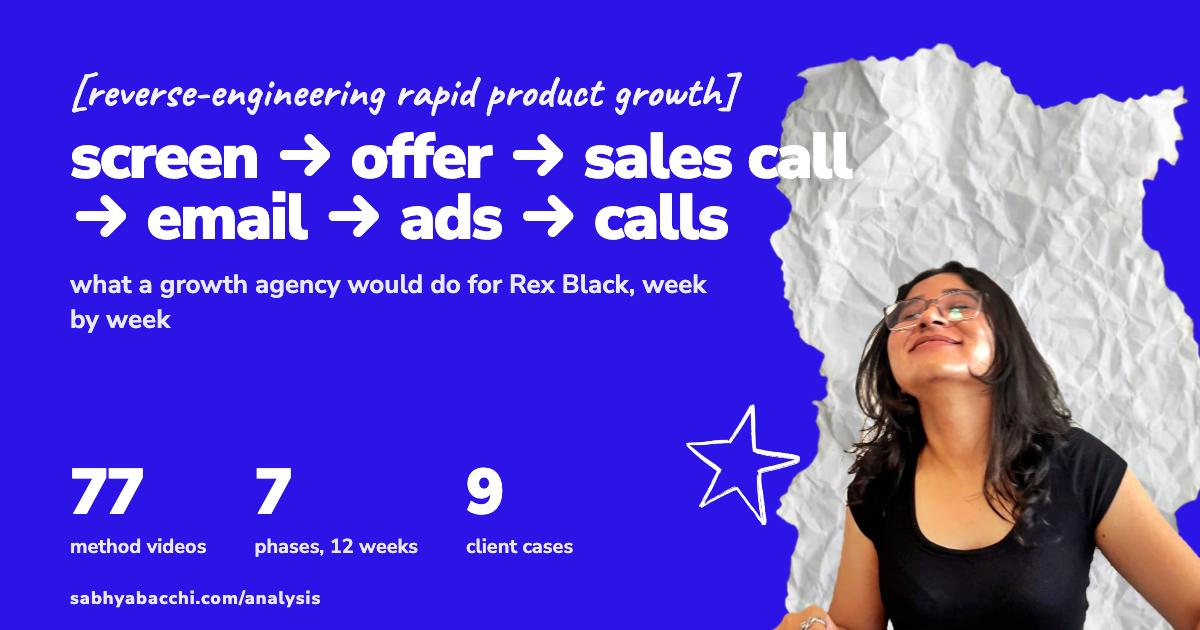
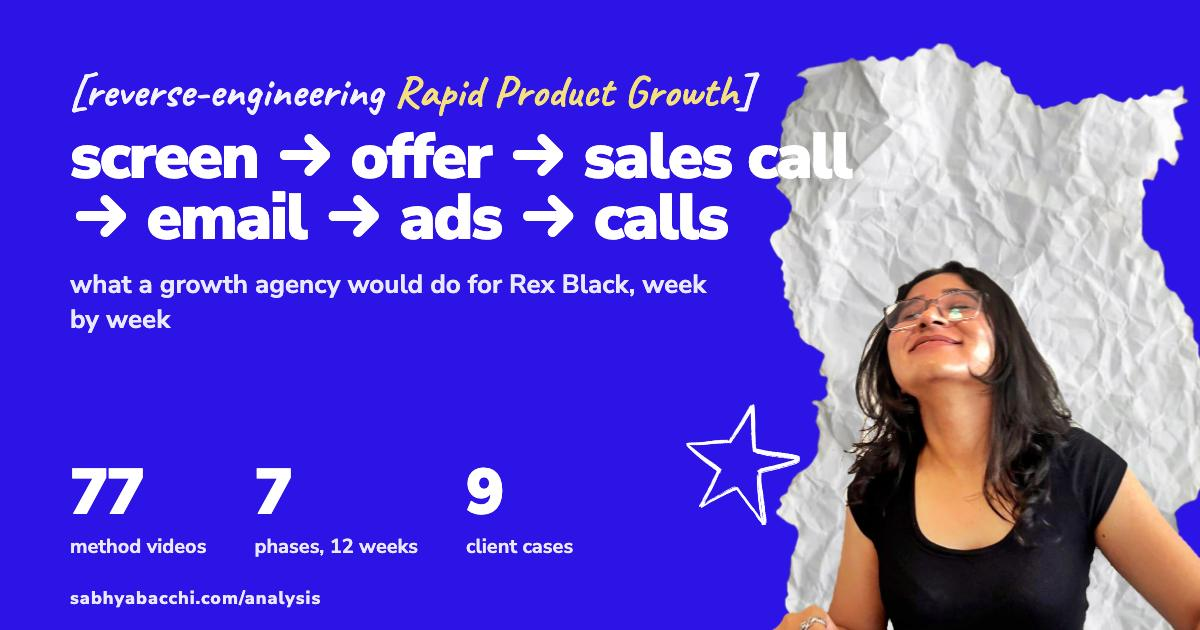
RPG page: one-line title with highlighted company name, neutral in-house chapter, copy fixes

Changed region(s): [[0.3083, 0.0905, 0.6475, 0.181]]

diff --git a/analysis/rpg-playbook/index.html b/analysis/rpg-playbook/index.html
@@ -1414,6 +1414,9 @@
   @media (max-width:1179px){.rpg .ch,.rp-phase{scroll-margin-top:60px}}
   @media (max-width:600px){.rpg > section:first-of-type{padding-top:calc(40px + var(--hdr-h,0px) + 44px)}}
   .rpg h2{max-width:22ch;text-wrap:balance}
+  .rpg h1{font-size:clamp(30px,3.05vw,46px);letter-spacing:-.025em}
+  @media (min-width:1180px){.rpg h1{white-space:nowrap}}
+  .rpg h1 .co{font-style:normal;color:var(--yellow);text-decoration:underline;text-decoration-color:rgba(255,236,120,.55);text-decoration-thickness:3px;text-underline-offset:8px}
   /* the Squarespace theme paints h1-h4 white; give them the section's ink on light surfaces */
   .rpg .white h1,.rpg .white h2,.rpg .white h3,.rpg .white h4,.rp-board h3,.rp-calc h3,.rp-cases h4,.rp-checks h4{color:var(--ink)}
   .rpg h3{font-family:'Manrope',"Helvetica Neue",Arial,sans-serif;font-weight:800;letter-spacing:-.02em;line-height:1.05;font-size:clamp(22px,2.2vw,30px);margin:0 0 14px}
@@ -1423,9 +1426,9 @@
   .rpg li{margin:0 0 9px}
   .rpg li b{font-weight:700}
   .rpg q{quotes:"\201C" "\201D"}
-  .rpg .lead{font-size:clamp(20px,2.3vw,26px);line-height:1.3;font-weight:600;margin-top:20px;max-width:34ch;font-family:'Manrope',"Helvetica Neue",Arial,sans-serif}
+  .rpg .lead{font-size:clamp(18px,1.5vw,22px);line-height:1.35;font-weight:600;margin-top:18px;max-width:none;font-family:'Manrope',"Helvetica Neue",Arial,sans-serif}
   .rpg .lead i{font-style:normal;opacity:.55;margin:0 .35em}
-  .rpg .byline{font-family:"Helvetica Neue",Arial,sans-serif;font-size:13px;letter-spacing:.06em;text-transform:uppercase;opacity:.75;margin-top:28px}
+  .rpg .byline{max-width:none;font-family:"Helvetica Neue",Arial,sans-serif;font-size:13px;letter-spacing:.06em;text-transform:uppercase;opacity:.75;margin-top:28px}
   .rpg .chips{display:flex;flex-wrap:wrap;gap:10px;margin-top:22px}
   .rpg .chips i{font-style:normal;border:2px solid rgba(255,255,255,.55);border-radius:999px;padding:7px 14px;font-family:'Manrope',"Helvetica Neue",Arial,sans-serif;font-size:13.5px;font-weight:700}
   .rpg .white .chips i{border-color:rgba(0,0,0,.35);color:var(--ink)}
@@ -1448,7 +1451,7 @@
   }
   /* stats */
   .rp-stats{display:grid;grid-template-columns:repeat(6,1fr);gap:26px 20px;margin:44px 0 0}
-  .rp-stats b{display:block;font-family:'Manrope',"Helvetica Neue",Arial,sans-serif;font-size:clamp(30px,3.2vw,46px);font-weight:800;letter-spacing:-.03em;line-height:1;color:var(--blue)}
+  .rp-stats b{display:block;white-space:nowrap;font-family:'Manrope',"Helvetica Neue",Arial,sans-serif;font-size:clamp(26px,2.5vw,38px);font-weight:800;letter-spacing:-.03em;line-height:1;color:var(--blue)}
   .rp-stats span{display:block;font-family:"Helvetica Neue",Arial,sans-serif;font-size:12.5px;line-height:1.35;margin-top:8px;color:#333}
   .rp-stats small{display:block;font-size:11px;opacity:.55;margin-top:5px}
   /* two-column */
@@ -1650,7 +1653,7 @@
   <a href="#c5"><b>05</b>The CEO&rsquo;s part</a>
   <a href="#c6"><b>06</b>Money and timeline</a>
   <a href="#c7"><b>07</b>Applied to Rex Black</a>
-  <a href="#c8"><b>08</b>In-house, or not</a>
+  <a href="#c8"><b>08</b>Run in-house</a>
   <a href="#c9"><b>09</b>Sources and method</a>
   <span class="cnt"><span id="rp-cnt">01</span> / 09</span>
 </nav>
@@ -1658,7 +1661,7 @@
 <!-- 01 hero + in one page -->
 <section class="navy ch" id="c1">
   <div class="wrap">
-    <h1>[reverse-engineering rapid product growth]</h1>
+    <h1>[reverse-engineering <em class="co">Rapid Product Growth</em>]</h1>
     <p class="lead">screen<i>&rarr;</i>rewrite the offer<i>&rarr;</i>fix the sales call<i>&rarr;</i>cold email<i>&rarr;</i>Meta ads<i>&rarr;</i>booked calls<i>&rarr;</i>scale.<br>What a growth agency would do for Rex Black, week by week.</p>
     <p style="margin-top:22px">This page walks through what Rapid Product Growth (&ldquo;RPG&rdquo;) would do for Rex Black after a contract is signed, from the first week to month three and beyond. It is written for someone who has read nothing else. It is reconstructed from RPG&rsquo;s own method videos, the 7-minute sales video on their booking page, a 45-minute podcast interview in which Jean-Michel Moreau describes his process, and the ads RPG is running right now from two clients&rsquo; own Facebook pages. Where a number appears, it is his number, and the source is named.</p>
     <div class="chips">
@@ -1676,7 +1679,7 @@
         <p>The new thing to sell is a small project with a fixed price, a fixed deadline, a clearly named result, and a money-back clause, aimed at a demand trigger that already exists in the market. Only after that offer exists do they touch any marketing channel.</p>
         <p>Then it works from the back of the funnel to the front. First they fix how Rex Black sells: record every sales call, pull out the objections, retrain the team to sell to cold buyers. Second they tune cold email outreach, aiming for two to five percent of people replying, and use podcast invitations as an indirect way in. Only then do they run Facebook and Instagram ads, and those ads sell a phone call rather than the service. The ads run from Rex Black&rsquo;s own Facebook page, five or six versions at a time, paid for with $5,000 to $10,000 a month of Rex Black&rsquo;s money.</p>
         <p>One number governs everything: the cost of getting one qualified prospect to book a call and actually show up. The benchmarks he uses are $250 to $500 per booked call from Meta ads for a normal B2B company, an 80 percent show rate when things are working, and a 20 percent close rate on calls that were booked for a specific offer. Put together, that means $1,500 to $6,000 to win a customer. He expects the first calls within 30 days, cash within 60 to 90 days, and the whole funnel &ldquo;unlocked&rdquo; within one to three months. If a company&rsquo;s numbers cannot beat those, he says so on the first call and does not take the deal.</p>
-        <p>The part that is really him, and not a system: he sits in your sales calls, rewrites how you run discovery and how you present, and he upsells you to the bigger engagement inside the first two weeks. In his words, that happens &ldquo;at the point of maximum deprivation, before the problem is solved.&rdquo; Everything else in the machine is documented on his own channel.</p>
+        <p>Alongside the system, he sits in the client&rsquo;s sales calls, rewrites how discovery and the presentation are run, and proposes the bigger engagement inside the first two weeks. In his words, that happens &ldquo;at the point of maximum deprivation, before the problem is solved.&rdquo; Each step of the machine is documented on his own channel.</p>
       </div>
       <div>
         <span class="k">Terms used on this page</span>
@@ -1760,7 +1763,7 @@
         <p class="q">He rejects founders whose attitude is &ldquo;everything doesn&rsquo;t work for me, prove it.&rdquo; He wants &ldquo;there&rsquo;s no reason why this should be impossible.&rdquo;</p>
         <p>He reads the founder for this in the conversation itself, not from a form.</p></div>
     </div>
-    <p style="margin-top:40px">He also sells his guarantee by telling stories about rejection. In the ad he calls &ldquo;we copied Harvard&rdquo; and in his vendor-audit videos, he tells &ldquo;the three times it didn&rsquo;t work.&rdquo; He explains that most engagements begin as fractional work, meaning a part-time paid role auditing what the company already does: &ldquo;I come in to evaluate all their vendors&hellip; very often we come up with a more involved engagement within the first two weeks.&rdquo; So the realistic expectation from a first proposal is a small paid audit, not the full program.</p>
+    <p style="margin-top:40px">He also talks openly about rejection when he explains the guarantee. In the ad he calls &ldquo;we copied Harvard&rdquo; and in his vendor-audit videos, he tells &ldquo;the three times it didn&rsquo;t work.&rdquo; He explains that most engagements begin as fractional work, meaning a part-time paid role auditing what the company already does: &ldquo;I come in to evaluate all their vendors&hellip; very often we come up with a more involved engagement within the first two weeks.&rdquo; So the realistic expectation from a first proposal is a small paid audit, not the full program.</p>
   </div>
 </section>
 
@@ -1937,11 +1940,11 @@
           <li><b>Find and attack the next blockage</b> using the real numbers against industry benchmarks, and move resources to it rather than polishing things that already work. In his words, that is the point where &ldquo;you&rsquo;ve earned the million.&rdquo;</li>
           <li><b>Leaders and operations.</b> A simple system for what a leader&rsquo;s job is, so problems stop flowing up to the CEO, and Toyota-style process work so that &ldquo;growth doesn&rsquo;t break your business.&rdquo;</li>
           <li><b>The client rhythm.</b> Weekly calls. A &ldquo;raise the floor&rdquo; rule: never test fewer than two things even in a bad week, rather than trying to beat your best week. The founder submits their own plan for that each week.</li>
-          <li><b>Handover.</b> &ldquo;Then we hand you a system you own.&rdquo; In practice the ad account, the Facebook page, the forms and the workflows already live in the client&rsquo;s own accounts (Susco and 2X advertise from their own pages), so what leaves with RPG at the end is the judgement, not the tooling.</li>
+          <li><b>Handover.</b> &ldquo;Then we hand you a system you own.&rdquo; In practice the ad account, the Facebook page, the forms and the workflows already live in the client&rsquo;s own accounts (Susco and 2X advertise from their own pages), so the accounts, pages and workflows stay with the client at the end.</li>
         </ol></div>
         <div class="rp-side">
           <div class="paper"><span class="tape"></span><small>Where the system lives</small>
-            <p>Both live clients advertise from their own Facebook pages, and the forms are Meta instant forms or Typeform on the client&rsquo;s account. The tooling is the client&rsquo;s from day one. The weekly judgement is the part supplied by RPG.</p>
+            <p>Both live clients advertise from their own Facebook pages, and the forms are Meta instant forms or Typeform on the client&rsquo;s account. The tooling is the client&rsquo;s from day one.</p>
             <div class="rp-why"><small>Why</small><span>He sells the system as something the client keeps, so it is built inside the client&rsquo;s accounts.</span></div>
           </div>
         </div>
@@ -1994,7 +1997,7 @@
         <div class="res">426% return on ad spend in 14 days; 100 to 2,000 leads a month; &ldquo;more new users today than all of December&rdquo;</div>
         <div class="src">Website testimonials</div><span class="tag">RPG&rsquo;s claim</span></div>
     </div>
-    <p class="rp-foot">Every public case is B2B software, consulting or a services shop selling to trades. None is a D2C or e-commerce brand.</p>
+    <p class="rp-foot">The named cases are B2B software, consulting and services firms, plus one B&amp;B. None is a D2C or e-commerce brand.</p>
   </div>
 </section>
 
@@ -2069,7 +2072,7 @@
     <h3 style="margin-top:44px">The offer he would push Rex Black toward</h3>
     <p>He colour-codes offers. Yellow is &ldquo;hard to sell without a relationship, takes an incredible amount of trust.&rdquo; He used almost that exact phrase about another client&rsquo;s ad that offered to &ldquo;place one of our engineers in your project.&rdquo; Green rides a queue that already exists.</p>
     <div class="rp-offers">
-      <div class="y"><small>Yellow, in his code</small><b>&ldquo;Custom software development&rdquo;</b><p>What Rex Black says it does today. Sold on trust and referrals. A stranger cannot approve it without a relationship.</p></div>
+      <div class="y"><small>Yellow, in his code</small><b>&ldquo;Custom software development&rdquo;</b><p>Rex Black&rsquo;s current positioning. Sold on trust and referrals. A stranger cannot approve it without a relationship.</p></div>
       <div class="g"><small>Green: D2C brand</small><b>&ldquo;Core Web Vitals and checkout speed fixed in 30 days for $12,000, or you don&rsquo;t pay.&rdquo;</b><p>Tied to revenue before Black Friday. A marketing director can approve it alone. About one in ten of these buyers becomes the $100,000-plus build, by his rule of thumb.</p></div>
       <div class="g"><small>Green: agency</small><b>&ldquo;A senior developer on your project within two weeks, fixed monthly price.&rdquo;</b><p>The outcome for an agency is capacity: &ldquo;a senior developer just left.&rdquo; Alternative D2C shape: &ldquo;Klaviyo flows rebuilt before Black Friday, fixed price, three weeks.&rdquo;</p></div>
     </div>
@@ -2126,11 +2129,12 @@
 <!-- 08 in-house -->
 <section class="white ch" id="c8">
   <div class="wrap">
-    <span class="k">08 &middot; What can be built in-house, and what cannot</span>
-    <h2>Most of the machine is on his channel. Four things are not.</h2>
+    <span class="k">08 &middot; Run in-house</span>
+    <h2>The same playbook, run from inside Rex Black</h2>
+    <p>Every step in the engagement is documented on RPG&rsquo;s own channel. This is how each one would be run by someone inside the company, on Rex Black&rsquo;s own data and buyers.</p>
     <div class="rp-inh">
       <div>
-        <h3>Fully reproducible from his videos</h3>
+        <h3>Every step, from his own videos</h3>
         <ul class="yes">
           <li>The vendor audit sheet and the one metric: cost per qualified call that showed.</li>
           <li>The ideal-customer spreadsheet built from Rex Black&rsquo;s past clients.</li>
@@ -2144,19 +2148,19 @@
         </ul>
       </div>
       <div>
-        <h3>Genuinely his, not in any video</h3>
-        <ul class="no">
-          <li>Twenty years of operator pattern-matching, &ldquo;around 10 new founders and CEOs a week,&rdquo; applied live on the sales call.</li>
-          <li>Sitting in the client&rsquo;s sales calls and rewriting discovery and the pitch.</li>
-          <li>Knowing when to reject a client, and the confidence to say so.</li>
-          <li>A guarantee backed by a company that can absorb a miss.</li>
+        <h3>What running it in-house adds</h3>
+        <ul class="yes">
+          <li>Objections are captured after every discovery call and acted on the same day: Tuesday&rsquo;s objection becomes Wednesday&rsquo;s ad angle or retargeting message.</li>
+          <li>The workflows are built for our results, not a template, and change as we see what works. Most of the smaller automations I can build myself with AI tools.</li>
+          <li>Direct access to why deals are lost, what clients keep asking for and what projects actually cost to deliver, turned into campaign changes and tested quickly.</li>
+          <li>Every test result, objection and lost-deal insight stays with Rex Black, so each campaign starts from what the last one learned.</li>
+          <li>Experience from inside a D2C brand: the operating realities, priorities and buying considerations of the businesses Rex Black targets.</li>
         </ul>
-        <p style="margin-top:18px">Those four things a company either buys with a fee or supplies through its own CEO&rsquo;s selling. Neither is a lead-generation hire&rsquo;s job.</p>
       </div>
     </div>
 
     <h3 style="margin-top:56px">Same steps, run inside Rex Black</h3>
-    <p>How I would run each step of the board from inside the company.</p>
+    <p>Each step of the board, and how it runs from inside the company.</p>
     <div class="rp-scroll" style="margin-top:18px"><table class="rp-table inh">
       <thead><tr><th>Step</th><th>RPG&rsquo;s version</th><th>In-house version</th></tr></thead>
       <tbody>
@@ -2168,7 +2172,7 @@
         <tr><td>Meta ads</td><td>Their template, $5&ndash;10k a month from day one</td><td>Same test order. Start small, scale on evidence.</td></tr>
         <tr><td>Booked calls</td><td>Their setter confirms</td><td>I qualify and confirm every booking before it reaches the CEO.</td></tr>
       </tbody></table></div>
-    <p style="margin-top:26px">So the comparison is between two ways of running the same playbook: RPG&rsquo;s judgement for a fee, plus $5,000 to $10,000 a month of ads, or the playbook run in-house on Rex Black&rsquo;s real buyers, with the CEO closing. The steps are public. The fee buys the judgement and the weekly presence.</p>
+    <p style="margin-top:26px">The steps are public and the accounts sit with the client either way. What changes with an in-house run is where the learning lives and how fast it is acted on.</p>
   </div>
 </section>
 
@@ -2182,7 +2186,7 @@
       <div><b>Transcribe</b>YouTube captions pulled and cleaned (134,000 words). LinkedIn clips and the sales video transcribed with Gemini, speaker-labelled.</div>
       <div><b>Extract</b>Sixteen method videos read in full. The other 61 turned into structured notes per video with Gemini and reviewed by hand.</div>
       <div><b>Cross-check</b>Claude used to organise about 150,000 words into one process map. Each number kept only where two sources agree or one source is quoted directly.</div>
-      <div><b>Write</b>Every figure on this page is RPG&rsquo;s own, tagged with where it was said. Nothing here is a measured result of their work.</div>
+      <div><b>Write</b>Every figure on this page is RPG&rsquo;s own, tagged with where it was said. None of the figures were measured independently.</div>
     </div>
     <ul class="rp-src">
       <li><b>Rapid Product Growth&rsquo;s YouTube channel:</b> all 77 videos. Read in full: 11-Step Growth System; The 3 Steps Every Business Must Follow; One Metric Exposes Bad Marketing Agencies; Pick the Right Growth Channel; Why 70% Lose Money on Paid Ads; Stop Wasting Money on LinkedIn Ads; 5-Quadrant Bottleneck; ICP Spreadsheet; Four Mistakes; 3 Marketing Tactics; ROI Trap; $1M Ceiling; SFOs; Stuck at $5M; Strategic Retargeting; Picking the Right Agency.</li>

diff --git a/pages/rpg-playbook.html b/pages/rpg-playbook.html
@@ -6,6 +6,9 @@
   @media (max-width:1179px){.rpg .ch,.rp-phase{scroll-margin-top:60px}}
   @media (max-width:600px){.rpg > section:first-of-type{padding-top:calc(40px + var(--hdr-h,0px) + 44px)}}
   .rpg h2{max-width:22ch;text-wrap:balance}
+  .rpg h1{font-size:clamp(30px,3.05vw,46px);letter-spacing:-.025em}
+  @media (min-width:1180px){.rpg h1{white-space:nowrap}}
+  .rpg h1 .co{font-style:normal;color:var(--yellow);text-decoration:underline;text-decoration-color:rgba(255,236,120,.55);text-decoration-thickness:3px;text-underline-offset:8px}
   /* the Squarespace theme paints h1-h4 white; give them the section's ink on light surfaces */
   .rpg .white h1,.rpg .white h2,.rpg .white h3,.rpg .white h4,.rp-board h3,.rp-calc h3,.rp-cases h4,.rp-checks h4{color:var(--ink)}
   .rpg h3{font-family:'Manrope',"Helvetica Neue",Arial,sans-serif;font-weight:800;letter-spacing:-.02em;line-height:1.05;font-size:clamp(22px,2.2vw,30px);margin:0 0 14px}
@@ -15,9 +18,9 @@
   .rpg li{margin:0 0 9px}
   .rpg li b{font-weight:700}
   .rpg q{quotes:"\201C" "\201D"}
-  .rpg .lead{font-size:clamp(20px,2.3vw,26px);line-height:1.3;font-weight:600;margin-top:20px;max-width:34ch;font-family:'Manrope',"Helvetica Neue",Arial,sans-serif}
+  .rpg .lead{font-size:clamp(18px,1.5vw,22px);line-height:1.35;font-weight:600;margin-top:18px;max-width:none;font-family:'Manrope',"Helvetica Neue",Arial,sans-serif}
   .rpg .lead i{font-style:normal;opacity:.55;margin:0 .35em}
-  .rpg .byline{font-family:"Helvetica Neue",Arial,sans-serif;font-size:13px;letter-spacing:.06em;text-transform:uppercase;opacity:.75;margin-top:28px}
+  .rpg .byline{max-width:none;font-family:"Helvetica Neue",Arial,sans-serif;font-size:13px;letter-spacing:.06em;text-transform:uppercase;opacity:.75;margin-top:28px}
   .rpg .chips{display:flex;flex-wrap:wrap;gap:10px;margin-top:22px}
   .rpg .chips i{font-style:normal;border:2px solid rgba(255,255,255,.55);border-radius:999px;padding:7px 14px;font-family:'Manrope',"Helvetica Neue",Arial,sans-serif;font-size:13.5px;font-weight:700}
   .rpg .white .chips i{border-color:rgba(0,0,0,.35);color:var(--ink)}
@@ -40,7 +43,7 @@
   }
   /* stats */
   .rp-stats{display:grid;grid-template-columns:repeat(6,1fr);gap:26px 20px;margin:44px 0 0}
-  .rp-stats b{display:block;font-family:'Manrope',"Helvetica Neue",Arial,sans-serif;font-size:clamp(30px,3.2vw,46px);font-weight:800;letter-spacing:-.03em;line-height:1;color:var(--blue)}
+  .rp-stats b{display:block;white-space:nowrap;font-family:'Manrope',"Helvetica Neue",Arial,sans-serif;font-size:clamp(26px,2.5vw,38px);font-weight:800;letter-spacing:-.03em;line-height:1;color:var(--blue)}
   .rp-stats span{display:block;font-family:"Helvetica Neue",Arial,sans-serif;font-size:12.5px;line-height:1.35;margin-top:8px;color:#333}
   .rp-stats small{display:block;font-size:11px;opacity:.55;margin-top:5px}
   /* two-column */
@@ -242,7 +245,7 @@
   <a href="#c5"><b>05</b>The CEO&rsquo;s part</a>
   <a href="#c6"><b>06</b>Money and timeline</a>
   <a href="#c7"><b>07</b>Applied to Rex Black</a>
-  <a href="#c8"><b>08</b>In-house, or not</a>
+  <a href="#c8"><b>08</b>Run in-house</a>
   <a href="#c9"><b>09</b>Sources and method</a>
   <span class="cnt"><span id="rp-cnt">01</span> / 09</span>
 </nav>
@@ -250,7 +253,7 @@
 <!-- 01 hero + in one page -->
 <section class="navy ch" id="c1">
   <div class="wrap">
-    <h1>[reverse-engineering rapid product growth]</h1>
+    <h1>[reverse-engineering <em class="co">Rapid Product Growth</em>]</h1>
     <p class="lead">screen<i>&rarr;</i>rewrite the offer<i>&rarr;</i>fix the sales call<i>&rarr;</i>cold email<i>&rarr;</i>Meta ads<i>&rarr;</i>booked calls<i>&rarr;</i>scale.<br>What a growth agency would do for Rex Black, week by week.</p>
     <p style="margin-top:22px">This page walks through what Rapid Product Growth (&ldquo;RPG&rdquo;) would do for Rex Black after a contract is signed, from the first week to month three and beyond. It is written for someone who has read nothing else. It is reconstructed from RPG&rsquo;s own method videos, the 7-minute sales video on their booking page, a 45-minute podcast interview in which Jean-Michel Moreau describes his process, and the ads RPG is running right now from two clients&rsquo; own Facebook pages. Where a number appears, it is his number, and the source is named.</p>
     <div class="chips">
@@ -268,7 +271,7 @@
         <p>The new thing to sell is a small project with a fixed price, a fixed deadline, a clearly named result, and a money-back clause, aimed at a demand trigger that already exists in the market. Only after that offer exists do they touch any marketing channel.</p>
         <p>Then it works from the back of the funnel to the front. First they fix how Rex Black sells: record every sales call, pull out the objections, retrain the team to sell to cold buyers. Second they tune cold email outreach, aiming for two to five percent of people replying, and use podcast invitations as an indirect way in. Only then do they run Facebook and Instagram ads, and those ads sell a phone call rather than the service. The ads run from Rex Black&rsquo;s own Facebook page, five or six versions at a time, paid for with $5,000 to $10,000 a month of Rex Black&rsquo;s money.</p>
         <p>One number governs everything: the cost of getting one qualified prospect to book a call and actually show up. The benchmarks he uses are $250 to $500 per booked call from Meta ads for a normal B2B company, an 80 percent show rate when things are working, and a 20 percent close rate on calls that were booked for a specific offer. Put together, that means $1,500 to $6,000 to win a customer. He expects the first calls within 30 days, cash within 60 to 90 days, and the whole funnel &ldquo;unlocked&rdquo; within one to three months. If a company&rsquo;s numbers cannot beat those, he says so on the first call and does not take the deal.</p>
-        <p>The part that is really him, and not a system: he sits in your sales calls, rewrites how you run discovery and how you present, and he upsells you to the bigger engagement inside the first two weeks. In his words, that happens &ldquo;at the point of maximum deprivation, before the problem is solved.&rdquo; Everything else in the machine is documented on his own channel.</p>
+        <p>Alongside the system, he sits in the client&rsquo;s sales calls, rewrites how discovery and the presentation are run, and proposes the bigger engagement inside the first two weeks. In his words, that happens &ldquo;at the point of maximum deprivation, before the problem is solved.&rdquo; Each step of the machine is documented on his own channel.</p>
       </div>
       <div>
         <span class="k">Terms used on this page</span>
@@ -352,7 +355,7 @@
         <p class="q">He rejects founders whose attitude is &ldquo;everything doesn&rsquo;t work for me, prove it.&rdquo; He wants &ldquo;there&rsquo;s no reason why this should be impossible.&rdquo;</p>
         <p>He reads the founder for this in the conversation itself, not from a form.</p></div>
     </div>
-    <p style="margin-top:40px">He also sells his guarantee by telling stories about rejection. In the ad he calls &ldquo;we copied Harvard&rdquo; and in his vendor-audit videos, he tells &ldquo;the three times it didn&rsquo;t work.&rdquo; He explains that most engagements begin as fractional work, meaning a part-time paid role auditing what the company already does: &ldquo;I come in to evaluate all their vendors&hellip; very often we come up with a more involved engagement within the first two weeks.&rdquo; So the realistic expectation from a first proposal is a small paid audit, not the full program.</p>
+    <p style="margin-top:40px">He also talks openly about rejection when he explains the guarantee. In the ad he calls &ldquo;we copied Harvard&rdquo; and in his vendor-audit videos, he tells &ldquo;the three times it didn&rsquo;t work.&rdquo; He explains that most engagements begin as fractional work, meaning a part-time paid role auditing what the company already does: &ldquo;I come in to evaluate all their vendors&hellip; very often we come up with a more involved engagement within the first two weeks.&rdquo; So the realistic expectation from a first proposal is a small paid audit, not the full program.</p>
   </div>
 </section>
 
@@ -529,11 +532,11 @@
           <li><b>Find and attack the next blockage</b> using the real numbers against industry benchmarks, and move resources to it rather than polishing things that already work. In his words, that is the point where &ldquo;you&rsquo;ve earned the million.&rdquo;</li>
           <li><b>Leaders and operations.</b> A simple system for what a leader&rsquo;s job is, so problems stop flowing up to the CEO, and Toyota-style process work so that &ldquo;growth doesn&rsquo;t break your business.&rdquo;</li>
           <li><b>The client rhythm.</b> Weekly calls. A &ldquo;raise the floor&rdquo; rule: never test fewer than two things even in a bad week, rather than trying to beat your best week. The founder submits their own plan for that each week.</li>
-          <li><b>Handover.</b> &ldquo;Then we hand you a system you own.&rdquo; In practice the ad account, the Facebook page, the forms and the workflows already live in the client&rsquo;s own accounts (Susco and 2X advertise from their own pages), so what leaves with RPG at the end is the judgement, not the tooling.</li>
+          <li><b>Handover.</b> &ldquo;Then we hand you a system you own.&rdquo; In practice the ad account, the Facebook page, the forms and the workflows already live in the client&rsquo;s own accounts (Susco and 2X advertise from their own pages), so the accounts, pages and workflows stay with the client at the end.</li>
         </ol></div>
         <div class="rp-side">
           <div class="paper"><span class="tape"></span><small>Where the system lives</small>
-            <p>Both live clients advertise from their own Facebook pages, and the forms are Meta instant forms or Typeform on the client&rsquo;s account. The tooling is the client&rsquo;s from day one. The weekly judgement is the part supplied by RPG.</p>
+            <p>Both live clients advertise from their own Facebook pages, and the forms are Meta instant forms or Typeform on the client&rsquo;s account. The tooling is the client&rsquo;s from day one.</p>
             <div class="rp-why"><small>Why</small><span>He sells the system as something the client keeps, so it is built inside the client&rsquo;s accounts.</span></div>
           </div>
         </div>
@@ -586,7 +589,7 @@
         <div class="res">426% return on ad spend in 14 days; 100 to 2,000 leads a month; &ldquo;more new users today than all of December&rdquo;</div>
         <div class="src">Website testimonials</div><span class="tag">RPG&rsquo;s claim</span></div>
     </div>
-    <p class="rp-foot">Every public case is B2B software, consulting or a services shop selling to trades. None is a D2C or e-commerce brand.</p>
+    <p class="rp-foot">The named cases are B2B software, consulting and services firms, plus one B&amp;B. None is a D2C or e-commerce brand.</p>
   </div>
 </section>
 
@@ -661,7 +664,7 @@
     <h3 style="margin-top:44px">The offer he would push Rex Black toward</h3>
     <p>He colour-codes offers. Yellow is &ldquo;hard to sell without a relationship, takes an incredible amount of trust.&rdquo; He used almost that exact phrase about another client&rsquo;s ad that offered to &ldquo;place one of our engineers in your project.&rdquo; Green rides a queue that already exists.</p>
     <div class="rp-offers">
-      <div class="y"><small>Yellow, in his code</small><b>&ldquo;Custom software development&rdquo;</b><p>What Rex Black says it does today. Sold on trust and referrals. A stranger cannot approve it without a relationship.</p></div>
+      <div class="y"><small>Yellow, in his code</small><b>&ldquo;Custom software development&rdquo;</b><p>Rex Black&rsquo;s current positioning. Sold on trust and referrals. A stranger cannot approve it without a relationship.</p></div>
       <div class="g"><small>Green: D2C brand</small><b>&ldquo;Core Web Vitals and checkout speed fixed in 30 days for $12,000, or you don&rsquo;t pay.&rdquo;</b><p>Tied to revenue before Black Friday. A marketing director can approve it alone. About one in ten of these buyers becomes the $100,000-plus build, by his rule of thumb.</p></div>
       <div class="g"><small>Green: agency</small><b>&ldquo;A senior developer on your project within two weeks, fixed monthly price.&rdquo;</b><p>The outcome for an agency is capacity: &ldquo;a senior developer just left.&rdquo; Alternative D2C shape: &ldquo;Klaviyo flows rebuilt before Black Friday, fixed price, three weeks.&rdquo;</p></div>
     </div>
@@ -718,11 +721,12 @@
 <!-- 08 in-house -->
 <section class="white ch" id="c8">
   <div class="wrap">
-    <span class="k">08 &middot; What can be built in-house, and what cannot</span>
-    <h2>Most of the machine is on his channel. Four things are not.</h2>
+    <span class="k">08 &middot; Run in-house</span>
+    <h2>The same playbook, run from inside Rex Black</h2>
+    <p>Every step in the engagement is documented on RPG&rsquo;s own channel. This is how each one would be run by someone inside the company, on Rex Black&rsquo;s own data and buyers.</p>
     <div class="rp-inh">
       <div>
-        <h3>Fully reproducible from his videos</h3>
+        <h3>Every step, from his own videos</h3>
         <ul class="yes">
           <li>The vendor audit sheet and the one metric: cost per qualified call that showed.</li>
           <li>The ideal-customer spreadsheet built from Rex Black&rsquo;s past clients.</li>
@@ -736,19 +740,19 @@
         </ul>
       </div>
       <div>
-        <h3>Genuinely his, not in any video</h3>
-        <ul class="no">
-          <li>Twenty years of operator pattern-matching, &ldquo;around 10 new founders and CEOs a week,&rdquo; applied live on the sales call.</li>
-          <li>Sitting in the client&rsquo;s sales calls and rewriting discovery and the pitch.</li>
-          <li>Knowing when to reject a client, and the confidence to say so.</li>
-          <li>A guarantee backed by a company that can absorb a miss.</li>
+        <h3>What running it in-house adds</h3>
+        <ul class="yes">
+          <li>Objections are captured after every discovery call and acted on the same day: Tuesday&rsquo;s objection becomes Wednesday&rsquo;s ad angle or retargeting message.</li>
+          <li>The workflows are built for our results, not a template, and change as we see what works. Most of the smaller automations I can build myself with AI tools.</li>
+          <li>Direct access to why deals are lost, what clients keep asking for and what projects actually cost to deliver, turned into campaign changes and tested quickly.</li>
+          <li>Every test result, objection and lost-deal insight stays with Rex Black, so each campaign starts from what the last one learned.</li>
+          <li>Experience from inside a D2C brand: the operating realities, priorities and buying considerations of the businesses Rex Black targets.</li>
         </ul>
-        <p style="margin-top:18px">Those four things a company either buys with a fee or supplies through its own CEO&rsquo;s selling. Neither is a lead-generation hire&rsquo;s job.</p>
       </div>
     </div>
 
     <h3 style="margin-top:56px">Same steps, run inside Rex Black</h3>
-    <p>How I would run each step of the board from inside the company.</p>
+    <p>Each step of the board, and how it runs from inside the company.</p>
     <div class="rp-scroll" style="margin-top:18px"><table class="rp-table inh">
       <thead><tr><th>Step</th><th>RPG&rsquo;s version</th><th>In-house version</th></tr></thead>
       <tbody>
@@ -760,7 +764,7 @@
         <tr><td>Meta ads</td><td>Their template, $5&ndash;10k a month from day one</td><td>Same test order. Start small, scale on evidence.</td></tr>
         <tr><td>Booked calls</td><td>Their setter confirms</td><td>I qualify and confirm every booking before it reaches the CEO.</td></tr>
       </tbody></table></div>
-    <p style="margin-top:26px">So the comparison is between two ways of running the same playbook: RPG&rsquo;s judgement for a fee, plus $5,000 to $10,000 a month of ads, or the playbook run in-house on Rex Black&rsquo;s real buyers, with the CEO closing. The steps are public. The fee buys the judgement and the weekly presence.</p>
+    <p style="margin-top:26px">The steps are public and the accounts sit with the client either way. What changes with an in-house run is where the learning lives and how fast it is acted on.</p>
   </div>
 </section>
 
@@ -774,7 +778,7 @@
       <div><b>Transcribe</b>YouTube captions pulled and cleaned (134,000 words). LinkedIn clips and the sales video transcribed with Gemini, speaker-labelled.</div>
       <div><b>Extract</b>Sixteen method videos read in full. The other 61 turned into structured notes per video with Gemini and reviewed by hand.</div>
       <div><b>Cross-check</b>Claude used to organise about 150,000 words into one process map. Each number kept only where two sources agree or one source is quoted directly.</div>
-      <div><b>Write</b>Every figure on this page is RPG&rsquo;s own, tagged with where it was said. Nothing here is a measured result of their work.</div>
+      <div><b>Write</b>Every figure on this page is RPG&rsquo;s own, tagged with where it was said. None of the figures were measured independently.</div>
     </div>
     <ul class="rp-src">
       <li><b>Rapid Product Growth&rsquo;s YouTube channel:</b> all 77 videos. Read in full: 11-Step Growth System; The 3 Steps Every Business Must Follow; One Metric Exposes Bad Marketing Agencies; Pick the Right Growth Channel; Why 70% Lose Money on Paid Ads; Stop Wasting Money on LinkedIn Ads; 5-Quadrant Bottleneck; ICP Spreadsheet; Four Mistakes; 3 Marketing Tactics; ROI Trap; $1M Ceiling; SFOs; Stuck at $5M; Strategic Retargeting; Picking the Right Agency.</li>

diff --git a/og/rpg.html b/og/rpg.html
@@ -3,7 +3,7 @@
     <img class="star" src="../assets/img5.png" style="left:680px;top:400px;width:130px;transform:rotate(12deg)">
   <div class="paper" style="height:700px;right:-30px;bottom:-50px"><img src="../assets/friend-paper.png"></div>
   <div class="url" style="right:auto;left:70px;top:auto;bottom:20px;font-size:18px">sabhyabacchi.com/analysis</div>
-  <div class="title"><div class="kicker">[reverse-engineering rapid product growth]</div>
+  <div class="title"><div class="kicker">[reverse-engineering <span style="color:#FFEC78">Rapid Product Growth</span>]</div>
     <div class="h1" style="font-size:64px">screen &rarr; offer &rarr; sales call<br>&rarr; email &rarr; ads &rarr; calls</div>
     <div style="font-size:26px;font-weight:700;margin-top:18px;opacity:.9;max-width:640px">what a growth agency would do for Rex Black, week by week</div></div>
   <div class="stats">
